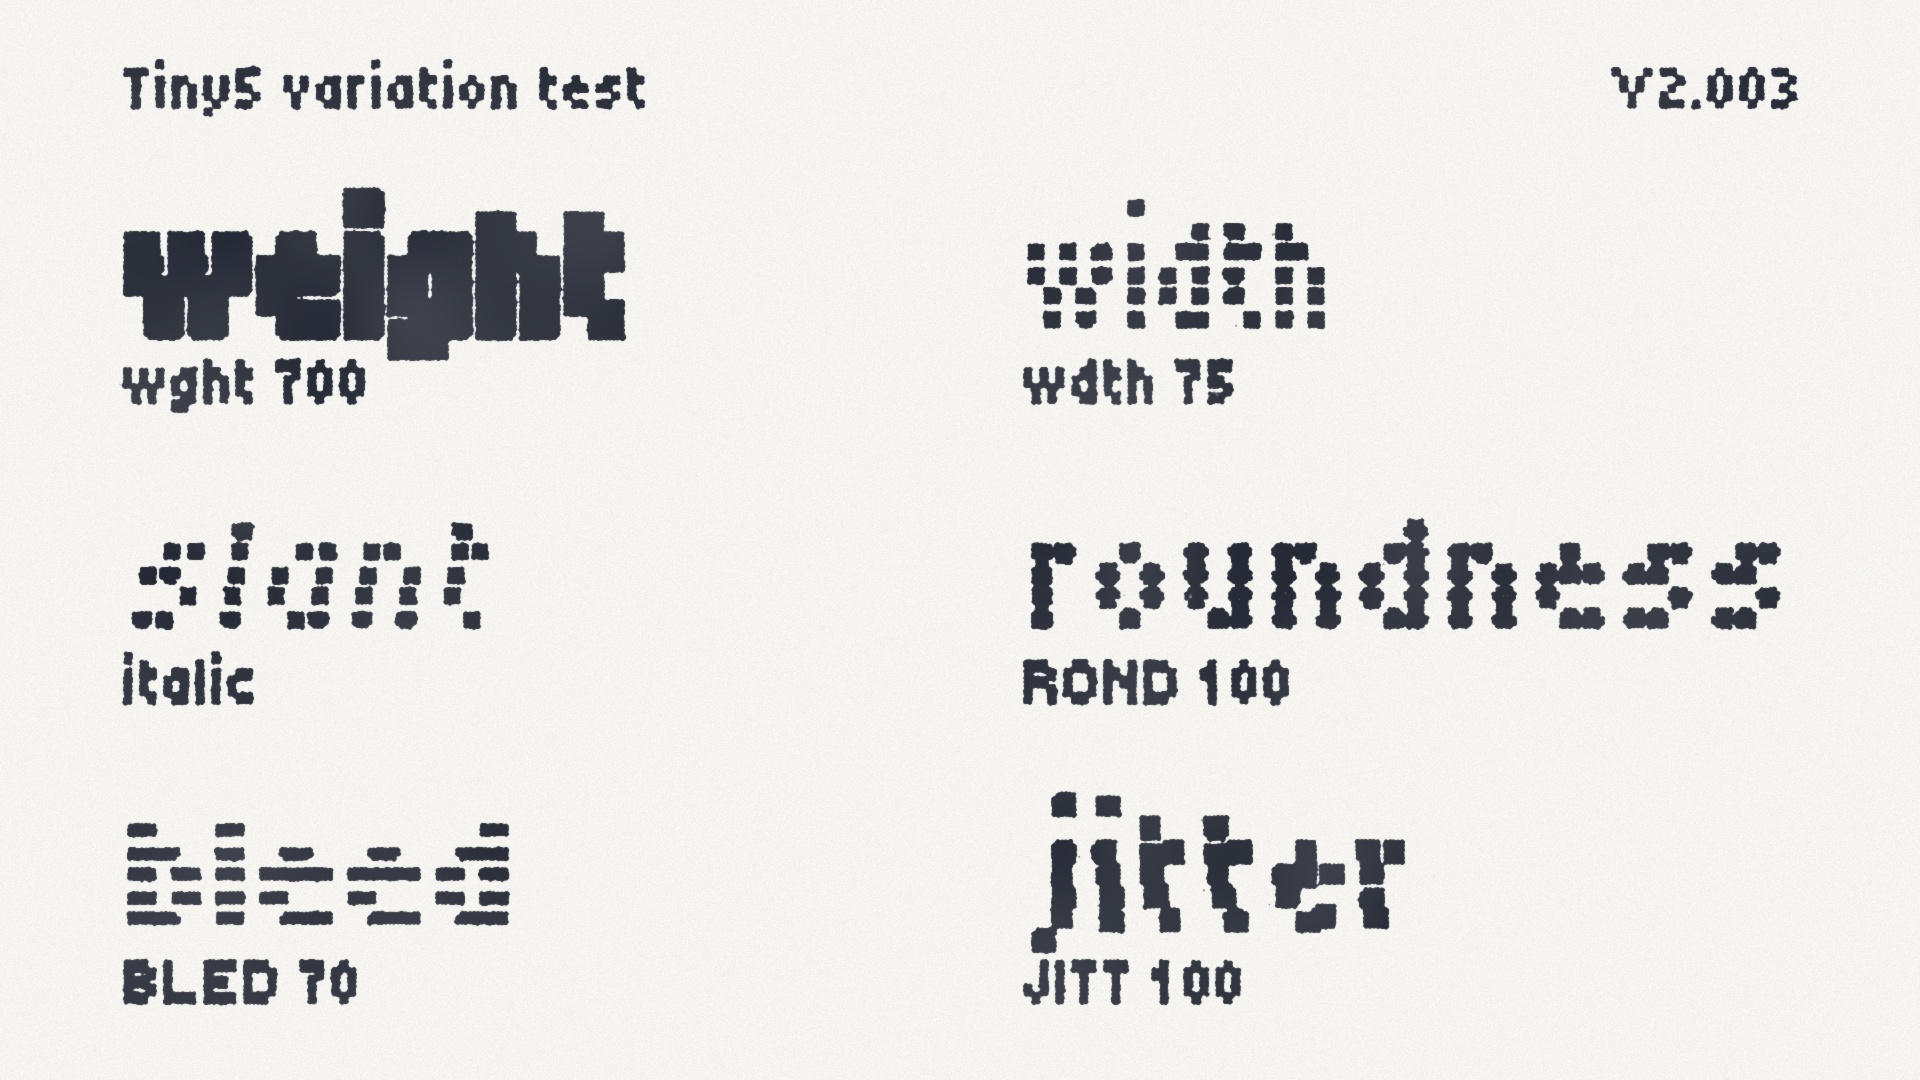
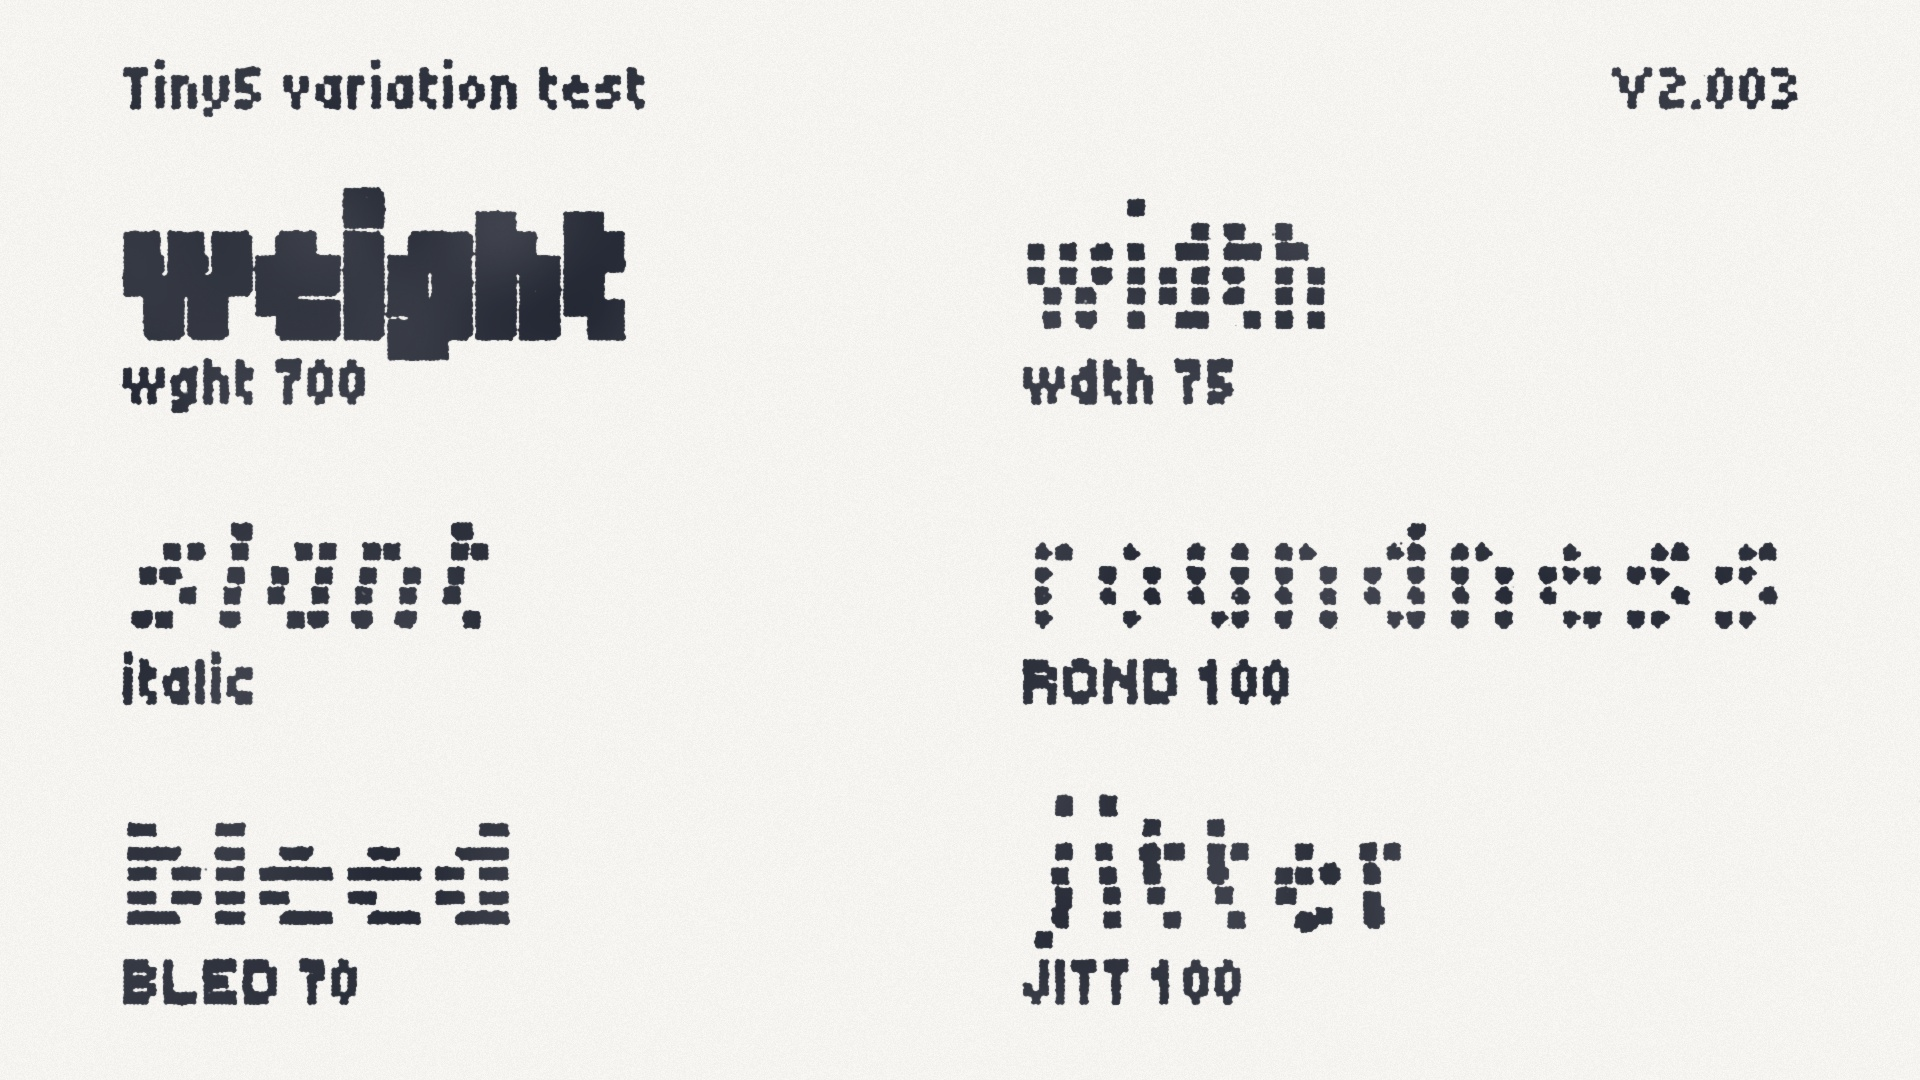
Specimen update

diff --git a/documentation/build-specimen.py b/documentation/build-specimen.py
@@ -810,9 +810,9 @@ AXIS_ROWS = [
     ("weight", "wght 700", {"axes": [700, 100, 0, 0, 0]}),
     ("width", "wdth 75", {"axes": [300, 75, 0, 0, 0]}),
     ("slant", "italic", {"axes": [300, 100, 0, 0, 0], "italic": True}),
-    ("roundness", "ROND 100", {"axes": [400, 100, 100, 0, 0]}),
+    ("roundness", "ROND 100", {"axes": [300, 100, 100, 0, 0]}),
     ("bleed", "BLED 70", {"axes": [200, 100, 0, 80, 0]}),
-    ("jitter", "JITT 100", {"axes": [400, 100, 0, 0, 100]}),
+    ("jitter", "JITT 100", {"axes": [300, 100, 0, 0, 100]}),
 ]
 
 
